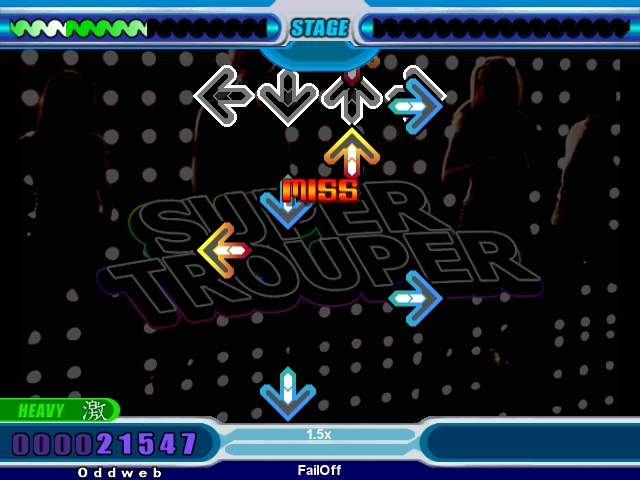
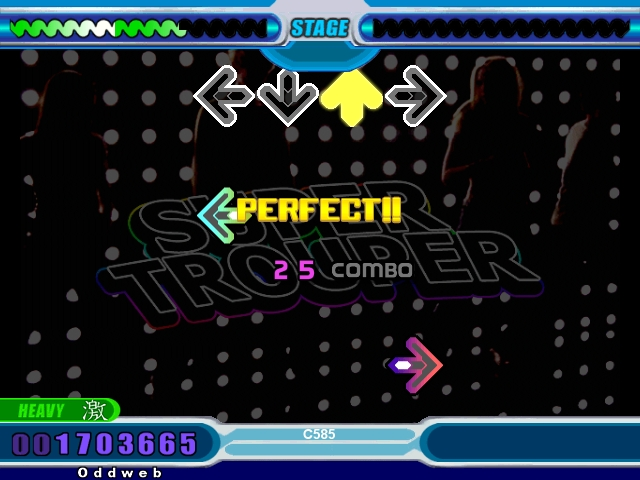
replaced in-game sm picture, added glossary of sm-terms to intro

diff --git a/3/report/introduction/sm.tex b/3/report/introduction/sm.tex
@@ -33,6 +33,22 @@ A sufficiently poor judgment (or a complete miss) results in the player's life b
 \begin{figure}[h]
 	\centering
 	\includegraphics[width=4in]{{images/sm2.jpg}}
-	\caption{A screenshot of a the StepMania in-song interface, with the player missing a step. The song is Super Trouper by A-Teens Image courtesy of Oddweb.}
+	\caption{A screenshot of a slightly modified StepMania in-song interface, with the player having recently scored a ``perfect'' (the second best judgment in unmodified StepMania). The song is Super Trouper by A-Teens. Image courtesy of Oddweb.}
 	\label{img-smgp}
 \end{figure}
+
+\subsection{Glossary}
+The following is a list of terms used in relation to DDR/StepMania.
+\begin{itemize}
+	\item{\textbf{Arrows}: The arrows that scroll across to the rhythm of the song.}
+	\item{\textbf{Stationary arrows}: The row of stationary shapes (or targets) the arrows approach.}
+	\item{\textbf{Dance platform/mat}: A type of controller pressure sensitive areas that correspond to the arrows. See Figure~\ref{img-ddr}.}
+	\item{\textbf{Song}: A ``song'' in StepMania includes the actual song/sound track and its steps.}
+	\item{\textbf{Dance pattern}: Dance pattern: the set of arrows for a given song at a given difficulty.}
+	\item{\textbf{Step}: All the arrows at a given time value (as in one step: one rearrangement of the feet on the dance platform). All arrows in a step have to be pressed within the step's time window for it to register as a hit.}
+	\item{\textbf{Note}: Alternate name for ``step''.}
+	\item{\textbf{Double}: A type of step containing two arrows.}
+	\item{\textbf{Triples (trips)}: A step containing three arrows.}
+	\item{\textbf{Quadruples (quads)}: A step containing four arrows.}
+	\item{\textbf{Judgment}: A ``score'' given for each step hit.}
+\end{itemize}
